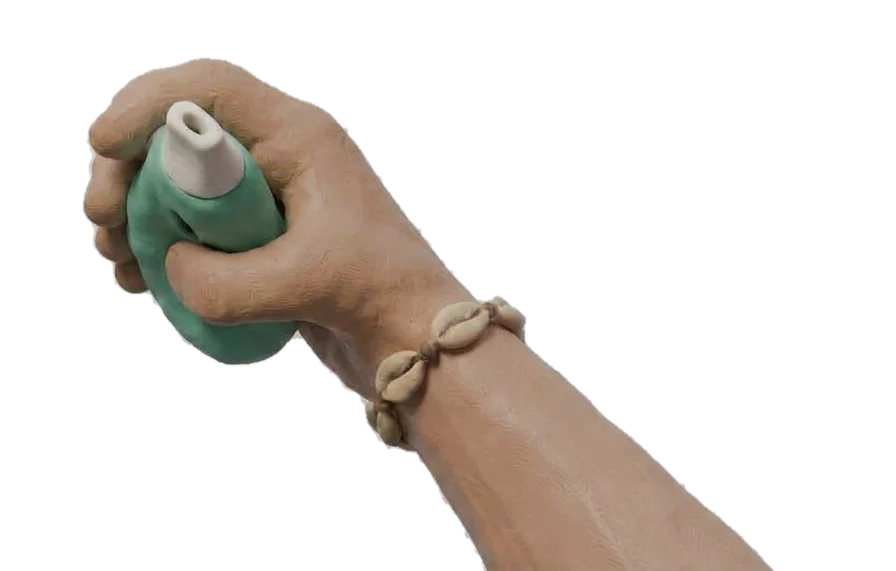
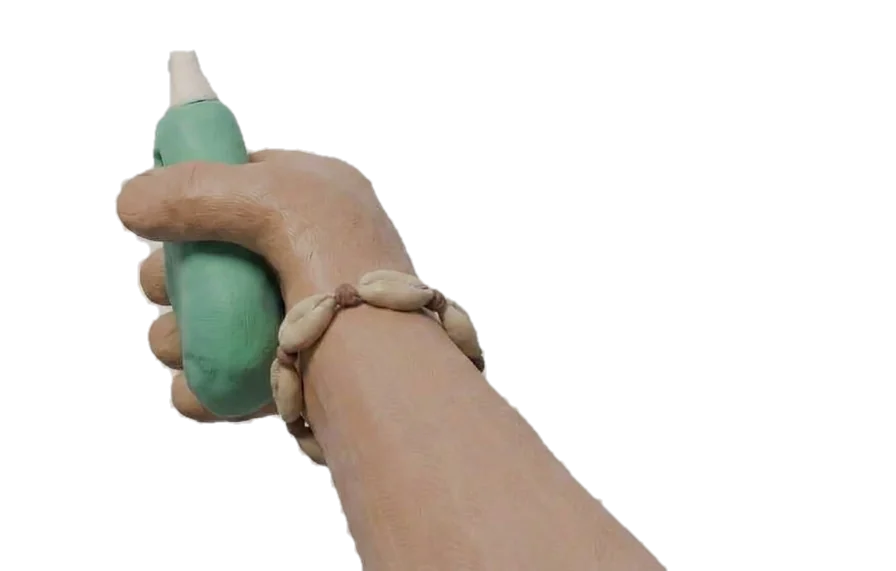
Hands: vape points away from camera into the NPC's mouth on reach/squeeze; hide objective panel during title and mission cards

Changed region(s): [[0.0938, 0.0893, 0.875, 1.0]]

diff --git a/js/story.js b/js/story.js
@@ -223,6 +223,7 @@ const css=document.createElement('style');css.textContent=`
 #stob{position:absolute;left:max(12px,env(safe-area-inset-left,0px));top:calc(max(12px,env(safe-area-inset-top,0px)) + 52px);z-index:21;pointer-events:none;width:clamp(200px,27vw,300px);padding:12px 16px 13px;
   background:#d8b585;color:#2b2233;clip-path:var(--cp,none);rotate:-1deg;box-shadow:0 4px 0 rgba(43,34,51,.3)}
 #stob[hidden]{display:none!important}
+html:has(#stmc.go) #stob,html:has(#stt.go) #stob{display:none!important}/* one thing at a time: the panel waits while the title/mission card is up */
 #stob.mini .tg,#stob.mini .st{display:none}#stob.mini{width:auto;padding:5px 8px 6px}#stob.mini .ct{margin-top:0}#stob.mini.tch{display:none}/* after a few seconds the panel tucks away (touch: fully) until the step changes */
 #stob .tg{display:inline-block;font:800 11px/1 system-ui,sans-serif;letter-spacing:.14em;background:#2b2233;color:#fbf5e6;padding:3px 6px 2px;margin-bottom:6px}
 #stob .st{display:block;font-family:var(--display,Impact,sans-serif);font-size:clamp(19px,2.3vw,26px);line-height:1;letter-spacing:.01em}
